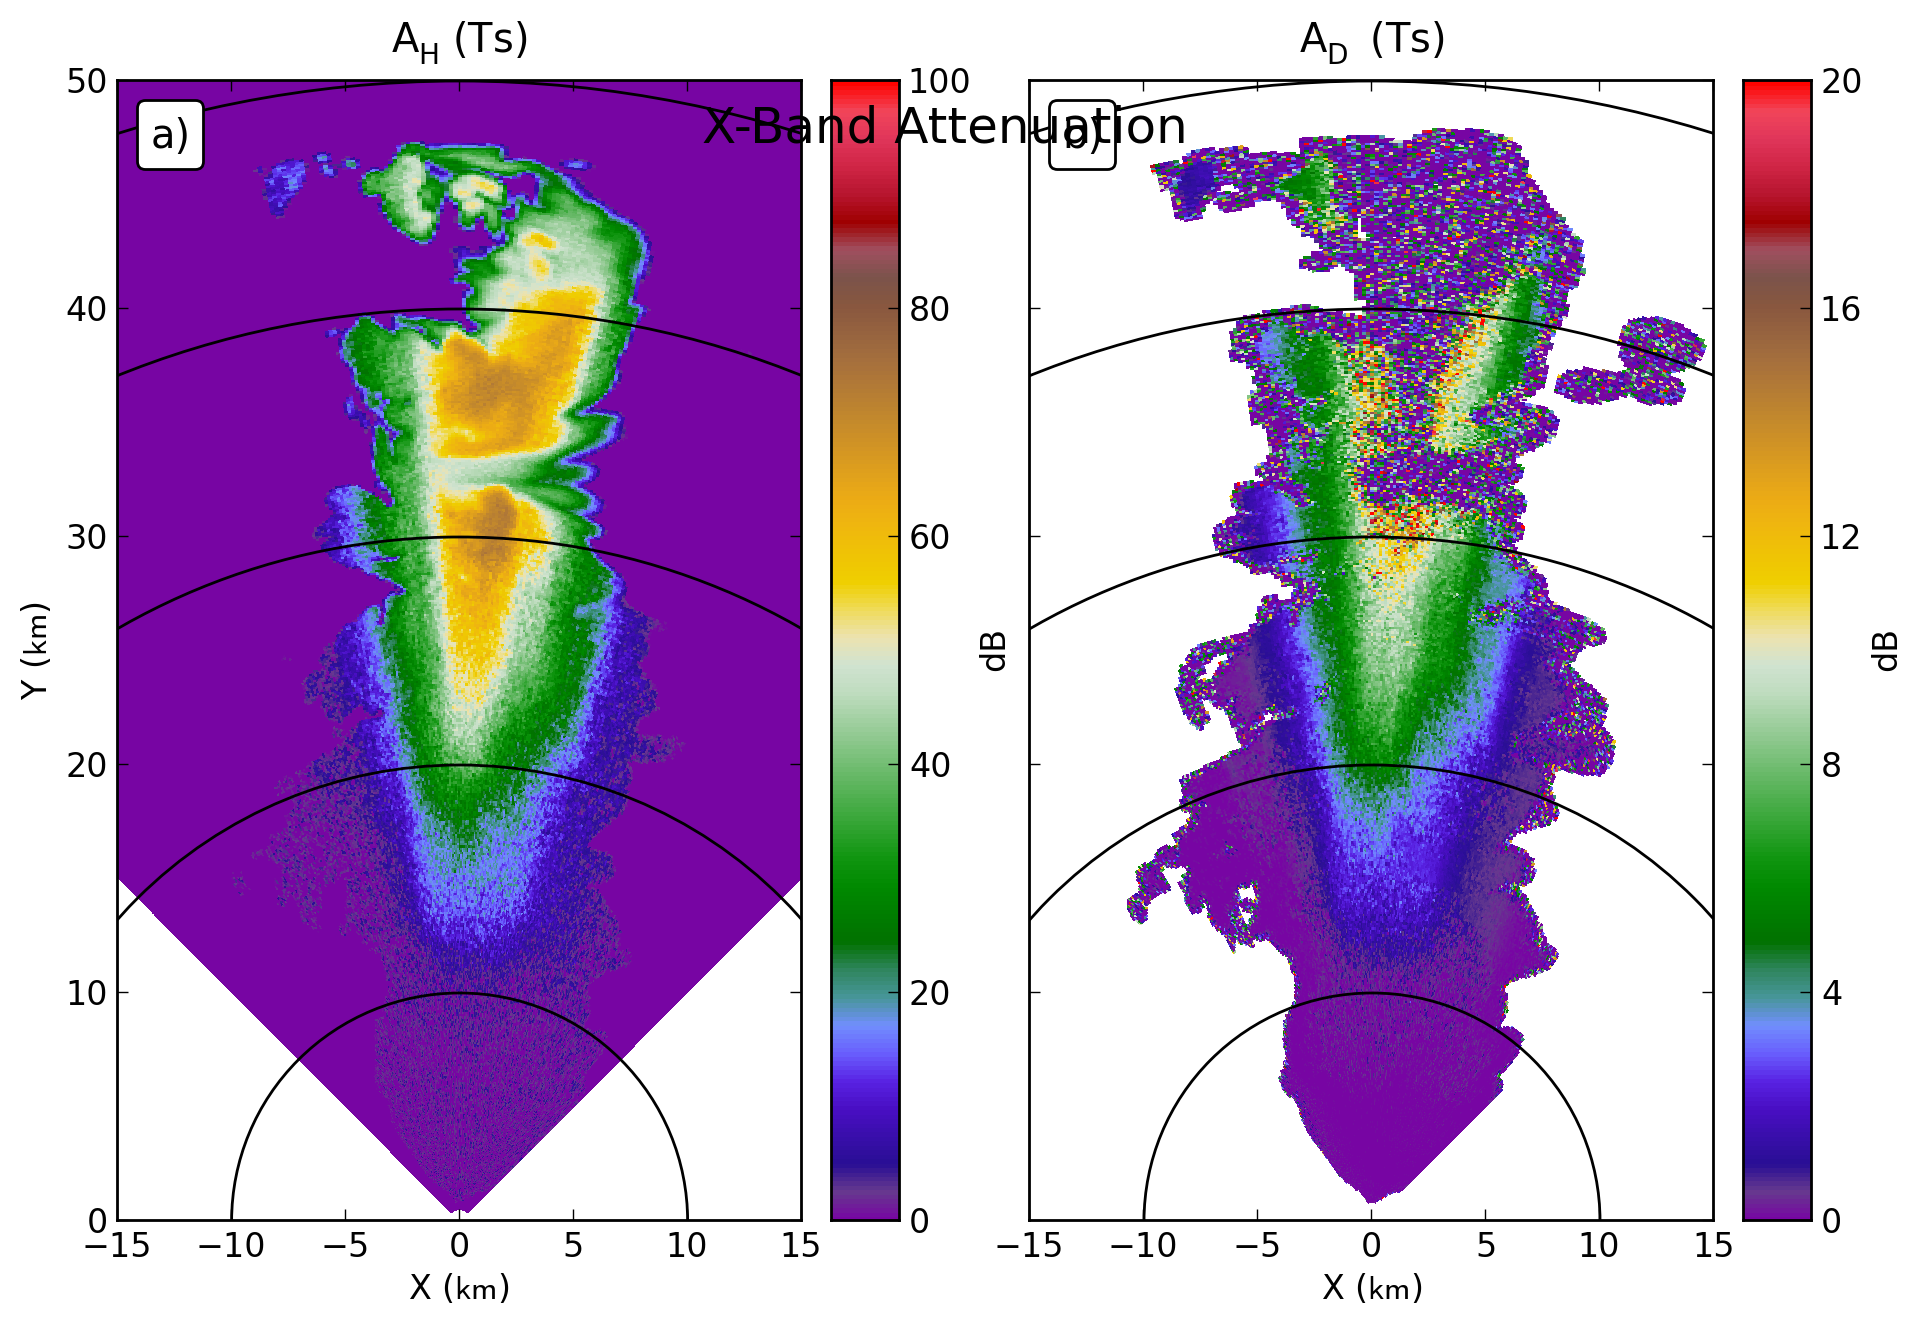
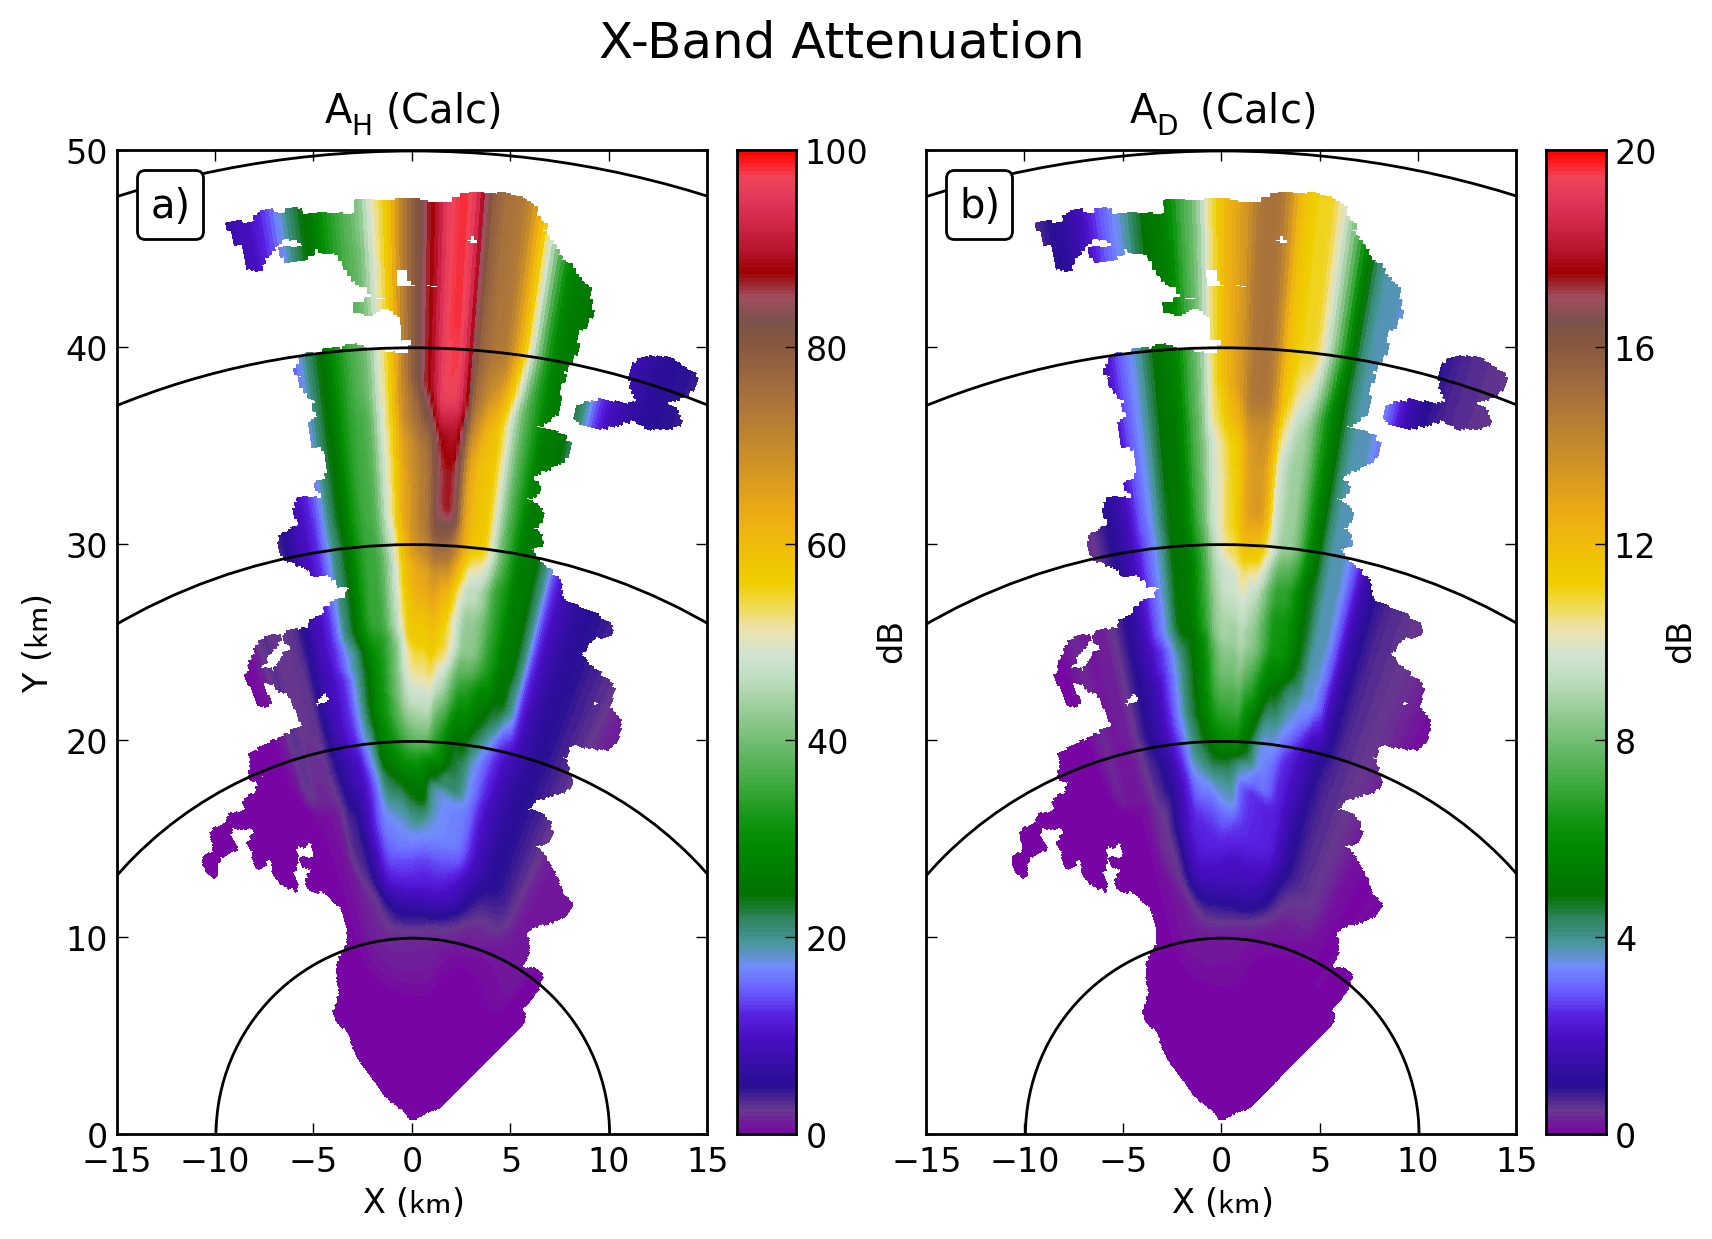
Add new set of figures with script.

diff --git a/Seminar2014/figures/alg_figures.py b/Seminar2014/figures/alg_figures.py
@@ -1,0 +1,230 @@
+import matplotlib.pyplot as plt
+import numpy as np
+import quantities as pq
+plt.rcParams['savefig.dpi'] = 107
+
+from disser.io import DataCache
+def sorter(k):
+    # Map certain experiments to sort to front or end
+    return k[0], {'Control':'@', 'Combined':'}'}.get(k[1], k[1])
+
+def make_key(data):
+    diff_count = 0
+    exp_key = 'Control'
+    if np.abs(data.wavelength.rescale(pq.cm) - np.round(data.wavelength.rescale(pq.cm), 0)) < 0.1:
+        exp_key = 'Wavelength'
+        diff_count += 1
+    if np.isnan(data.runinfo.FixedTemp):
+        exp_key = 'Temperature'
+        diff_count += 1
+    if data.runinfo.CantingWidth > 10.0:
+        exp_key = 'Canting'
+        diff_count += 1
+    if data.runinfo.AxisRatioCalc != 'Brandes':
+        exp_key = 'Shape'
+        diff_count += 1
+    if diff_count > 1:
+        exp_key = 'Combined'
+    return data.waveBand, exp_key
+
+data_cache = DataCache('ref_runs', make_key, ('band', 'exp'))
+del data_cache['C', 'Canting']
+del data_cache['X', 'Canting']
+data_cache.key_sorter = sorter
+wavelengths,exps = data_cache.sub_keys()
+
+# <codecell>
+
+import disser.plots.defaults as defaults
+from disser import plots, datatypes, atten
+
+# <codecell>
+
+AttenDelta = datatypes.DataType('Attenuation Difference', r'$\Delta A$')
+SpecAttenDelta = datatypes.DataType('Specific Attenuation Difference', r'$\Delta \alpha$')
+DiffAttenDelta = datatypes.DataType('Differential Attenuation Difference', r'$\Delta A_D$')
+SpecDiffAttenDelta = datatypes.DataType('Specific Differential Attenuation Difference', r'$\Delta \alpha_D$')
+PhiDelta = datatypes.DataType('Differential Phase Difference', r'$\Delta \Phi_{DP}$')
+
+# <codecell>
+
+#bidi_cmap = plt.get_cmap('Spectral')
+bidi_cmap = plots.get_cmap('Carbone42')
+datatypes.TypePlotInfo[AttenDelta].update(norm=plt.Normalize(-10, 10), cmap=bidi_cmap)
+datatypes.TypePlotInfo[SpecAttenDelta].update(norm=plt.Normalize(-1, 1), cmap=bidi_cmap)
+datatypes.TypePlotInfo[DiffAttenDelta].update(norm=plt.Normalize(-2, 2), cmap=bidi_cmap)
+datatypes.TypePlotInfo[SpecDiffAttenDelta].update(norm=plt.Normalize(-0.5, 0.5), cmap=bidi_cmap)
+datatypes.TypePlotInfo[PhiDelta].update(norm=plt.Normalize(-50, 50), cmap=bidi_cmap)
+
+# <headingcell level=2>
+
+# Attenuation Algorithm Results
+
+# <codecell>
+
+def run_attenuation_algs(data):
+    from disser.atten import attenAlgs
+    attenAlgs.runAll(data, var='H')
+    attenAlgs.runAll(data, var='diff')
+
+# <codecell>
+
+def calc_specific_atten(data, dt=datatypes.Attenuation, pol='H'):
+    destMap = {datatypes.Attenuation:datatypes.SpecAttenuation, datatypes.DiffAtten:datatypes.SpecDiffAtten}
+    fields = data.fields.grabAll(dt, filt=lambda f: f.pol==pol)
+    for f in fields:
+        d = data.fields[f]
+        spec = np.gradient(d, 1, data.gate_length)[1].rescale('dB/km')
+        data.addField(spec, destMap[dt], pol=f.pol, source=f.source)
+
+# <codecell>
+
+for d in data_cache.values():
+    d.fields.default_keys['source'] = 'average'
+    run_attenuation_algs(d)
+    calc_specific_atten(d, datatypes.Attenuation, pol='H')
+    calc_specific_atten(d, datatypes.DiffAtten, pol=None)
+
+# <codecell>
+
+def setupDefaults(grid):
+    ax = grid[0]
+    ax.xaxis.set_major_locator(plt.MultipleLocator(10))
+    ax.set_xlim(-15, 15)
+    ax.set_ylim(0, 50)
+    
+def algLabelsNoSrc(dt, units):
+    abbr, src_str = dt.string_parts()
+    return '%s (%s)' % (abbr, units)
+
+plt.rcParams['font.size'] = 12
+plots.defaults.axisDefaults.setup = setupDefaults
+
+def exp_order(mom):
+    return {'calc':0, 'Linear':1, 'ZPHI':2, 'SC':3}[mom.source]
+
+# <codecell>
+
+for lam_text in wavelengths:
+    for exp in exps:
+        data = data_cache[lam_text, exp]
+        with datatypes.PlotInfoContext(wavelength=data.wavelength):
+            with defaults.colorbarLabeller(algLabelsNoSrc):
+                for pol,mom in [('H', datatypes.Attenuation), ('H', datatypes.SpecAttenuation),
+                                (None, datatypes.DiffAtten), (None, datatypes.SpecDiffAtten)]:
+                    fig = plt.figure(figsize=(8, 6))
+                    moments = data.fields.grabAll(mom, filt=lambda f: f.pol==pol and f.source not in ('average', 'ts'))
+                    grid = defaults.multipanel_cbar_row(fig, (1, len(moments)), moments, data,
+                                                        rect=[0.07, 0.17, 0.95, 0.91])
+                    for ax,m in zip(grid, sorted(moments, key=exp_order)):
+                        src = m.source
+                        l = ax.set_title('Truth' if src == 'calc' else src)
+                        l.set_verticalalignment('bottom')
+                    fig.suptitle(exp, fontsize=18)
+                    fig.savefig('%s_%s_%s.png' % (lam_text, exp, mom.name.replace(' ', '_')))
+
+import sys;sys.exit()
+# <headingcell level=2>
+
+# Algorithm Difference Between Runs
+
+# <codecell>
+
+def calc_differences_algs(data, dt=datatypes.Attenuation, pol='H'):
+    destMap = {datatypes.Attenuation:AttenDelta, datatypes.DiffAtten:DiffAttenDelta,
+        datatypes.SpecAttenuation:SpecAttenDelta, datatypes.SpecDiffAtten:SpecDiffAttenDelta}
+    ref_field = data.fields.grabData(dt, pol=pol, source='calc')
+    fields = data.fields.grabAll(dt, filt=lambda f: f.pol == pol and f.source not in ('calc', 'average', 'ts'))
+
+    for f in fields:
+        data.addField(data.fields[f] - ref_field, destMap[dt], pol=f.pol, source=f.source)
+
+# <codecell>
+
+for d in data_cache.values():
+    calc_differences_algs(d, dt=datatypes.Attenuation, pol='H')
+    calc_differences_algs(d, dt=datatypes.SpecAttenuation, pol='H')
+    calc_differences_algs(d, dt=datatypes.DiffAtten, pol=None)
+    calc_differences_algs(d, dt=datatypes.SpecDiffAtten, pol=None)
+
+# <codecell>
+
+def plot_differences_algs(data, dt, pol):
+    rect=[0, 0, 1, 0.92]
+    ncols = len(data)
+
+    data_list = list()
+    moments = list()
+    for d in data:
+        moms = d.fields.grabAll(dt, filt=lambda f: f.pol == pol and f.source not in ('calc', 'average', 'ts', 'sweep'))
+        moments.extend(moms)
+        data_list.extend([d]*len(moms))
+
+    nrows = len(moms)
+    fig = plt.figure(figsize=(8, 6))
+
+    with defaults.colorbarLabeller(defaults.algLabels):
+        grid = defaults.multipanel_cbar_row(fig, (nrows, ncols), moments, data_list, rect=rect)
+    return fig, grid    
+
+# <codecell>
+
+for lam_text in wavelengths:
+    data_list = data_cache.query(band=lam_text)
+    with datatypes.PlotInfoContext(wavelength=data_list[0].wavelength):
+        for pol,mom in [('H', AttenDelta), ('H', SpecAttenDelta),
+                        (None, DiffAttenDelta), (None, SpecDiffAttenDelta)]:
+            fig, grid = plot_differences_algs(data_list, mom, pol=pol)
+            polStr = 'Diff' if pol is None else pol
+            title = fig.suptitle('%s-band %s' % (lam_text, polStr), fontsize=11)
+            for ind,exp in enumerate(exps):
+                grid.axes_row[0][ind].set_title(exp)
+
+# <codecell>
+
+def plot_scatter_algs(data, dt, pol):
+    from matplotlib.colors import LogNorm
+    data_list = list()
+    moments = list()
+
+    # Assume all data have the same available moments
+    moms = [f.source for f in data[0].fields.grabAll(dt,
+            filt=lambda f: f.pol == pol and f.source not in ('calc', 'average', 'ts', 'sweep'))]
+    
+    fig, axes = plt.subplots(len(moms), len(data), sharex=True, sharey=True)
+    for rowInd, (mom, row) in enumerate(zip(moms, axes)):
+        for colInd, (d, ax) in enumerate(zip(data, row)):
+            ref_mom = d.fields.grab(dt, pol=pol, source='calc')
+            ref_field = d.fields[ref_mom]
+            alg_field = d.fields.grabData(dt, pol=pol, source=mom)
+            mask = (ref_field > 0.02) & (alg_field > 0.02)
+            with datatypes.PlotInfoContext(wavelength=d.wavelength):
+                norm = datatypes.TypePlotInfo[ref_mom.type]['norm']
+            hist, xedge, yedge = np.histogram2d(ref_field[mask], alg_field[mask], bins=50,
+                    range=[[norm.vmin, norm.vmax], [norm.vmin, norm.vmax]])
+            ax.pcolormesh(xedge, yedge, hist.T, norm=LogNorm())
+            ax.plot([0.0, 1.0], [0.0, 1.0], 'k--', transform=ax.transAxes)
+            ax.grid(True)
+            if colInd == 0:
+                ax.set_ylabel(mom)
+            if rowInd == len(moms) - 1:
+                ax.set_xlabel(ref_mom)
+    ax.set_xlim(0.0, None)
+    ax.set_ylim(0.0, None)
+    ax.xaxis.set_major_locator(plt.MaxNLocator(nbins=5))
+    ax.yaxis.set_major_locator(plt.MaxNLocator(nbins=5))
+    return fig, axes    
+
+# <codecell>
+
+for lam_text in wavelengths:
+    data_list = data_cache.query(band=lam_text)
+    with datatypes.PlotInfoContext(wavelength=data_list[0].wavelength):
+        for pol,mom in [('H', datatypes.SpecAttenuation), (None, datatypes.SpecDiffAtten)]:
+            fig, grid = plot_scatter_algs(data_list, mom, pol=pol)
+            polStr = 'Diff' if pol is None else pol
+            title = fig.suptitle('%s-band %s' % (lam_text, polStr), fontsize=11)
+            for ind,exp in enumerate(exps):
+                grid[0, ind].set_title(exp)
+            fig.tight_layout()
+
